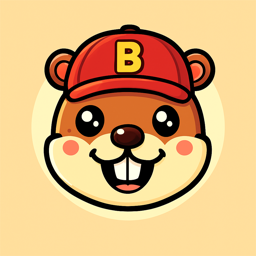
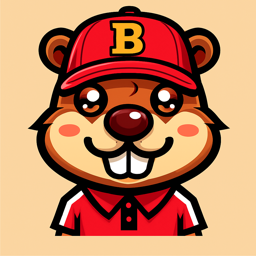
feat: add shirt cosmetics + full-body beaver sprites
Expand beaver from head-only to head+upper body portrait. Add 8 shirt
variants (Red Polo, No Shirt, Hawaiian, Overalls, Flannel, Jersey,
Tuxedo, Hoodie) with unlock conditions. All 22 sprites generated from
single base using GPT Image Edit API for consistency.

diff --git a/src/main.js b/src/main.js
@@ -376,6 +376,15 @@ const COSMETICS = [
   {id:'hat-party', category:'hats', name:'Party Hat', icon:'🥳', unlock:'streak7', desc:'7-day login streak', premium:true},
   {id:'hat-crown', category:'hats', name:'Golden Crown', icon:'👑', unlock:'allS', desc:'All S-grades', premium:true},
   {id:'hat-tophat', category:'hats', name:'Top Hat', icon:'🎩', unlock:'legend', desc:'Reach Legend rank', premium:true},
+  // Shirts
+  {id:'shirt-polo', category:'shirts', name:'Red Polo', icon:'👕', unlock:'default'},
+  {id:'shirt-none', category:'shirts', name:'No Shirt', icon:'🚫', unlock:'default'},
+  {id:'shirt-hawaiian', category:'shirts', name:'Hawaiian', icon:'🌺', unlock:'shift3', desc:'Complete Shift 3'},
+  {id:'shirt-overalls', category:'shirts', name:'Overalls', icon:'👷', unlock:'clean50', desc:'Clean 50 stalls'},
+  {id:'shirt-flannel', category:'shirts', name:'Flannel', icon:'🪓', unlock:'shift5', desc:'Complete Shift 5', premium:true},
+  {id:'shirt-jersey', category:'shirts', name:'Jersey #82', icon:'🏈', unlock:'combo20', desc:'Get a 20x combo', premium:true},
+  {id:'shirt-tuxedo', category:'shirts', name:'Tuxedo', icon:'🤵', unlock:'allS', desc:'All S-grades', premium:true},
+  {id:'shirt-hoodie', category:'shirts', name:'Hoodie', icon:'🧥', unlock:'coins300', desc:'Buy for 300 coins', cost:300},
   // Colors
   {id:'color-classic', category:'colors', name:'Classic Brown', icon:'🟤', unlock:'default'},
   {id:'color-golden', category:'colors', name:'Honey Gold', icon:'🟡', unlock:'manager', desc:'Reach Manager rank'},
@@ -385,9 +394,15 @@ const COSMETICS = [
 ];
 
 let cosmeticState = JSON.parse(localStorage.getItem('beaverCosmetics') || 'null') || {
-  unlocked: ['hat-none','hat-cap','color-classic'],
-  equipped: {hat:'hat-none', color:'color-classic'}
+  unlocked: ['hat-none','hat-cap','shirt-polo','shirt-none','color-classic'],
+  equipped: {hat:'hat-none', shirt:'shirt-polo', color:'color-classic'}
 };
+// Migrate old state missing shirt
+if (!cosmeticState.equipped.shirt) {
+  cosmeticState.equipped.shirt = 'shirt-polo';
+  if (!cosmeticState.unlocked.includes('shirt-polo')) cosmeticState.unlocked.push('shirt-polo');
+  if (!cosmeticState.unlocked.includes('shirt-none')) cosmeticState.unlocked.push('shirt-none');
+}
 
 function saveCosmeticState() {
   localStorage.setItem('beaverCosmetics', JSON.stringify(cosmeticState));
@@ -429,8 +444,12 @@ function checkCosmeticUnlocks() {
         earned = r.name === 'Manager' || r.name === 'Legend';
         break;
       }
+      case 'shift3': earned = achievementStats.shiftsCompleted >= 3; break;
+      case 'shift5': earned = achievementStats.shiftsCompleted >= 5; break;
+      case 'clean50': earned = achievementStats.totalCleaned >= 50; break;
+      case 'combo20': earned = achievementStats.maxCombo >= 20; break;
       case 'insane6': earned = localStorage.getItem('beaverInsane6') === 'true'; break;
-      // coins500 is purchased manually, not auto-unlocked
+      // coins are purchased manually, not auto-unlocked
     }
     if (earned) {
       cosmeticState.unlocked.push(c.id);
@@ -5961,11 +5980,12 @@ $('locker-modal').addEventListener('click', e => {
 });
 
 function getLockerPreviewSrc() {
-  // Show the equipped hat sprite, or color sprite if on colors tab
+  // Priority: hat > shirt > color for preview
   const hat = cosmeticState.equipped.hat;
+  const shirt = cosmeticState.equipped.shirt;
   const color = cosmeticState.equipped.color;
-  // Hat sprites take priority since they're more visually distinct
   if (hat && hat !== 'hat-none') return `/images/cosmetics/${hat}.png`;
+  if (shirt && shirt !== 'shirt-polo') return `/images/cosmetics/${shirt}.png`;
   return `/images/cosmetics/${color || 'color-classic'}.png`;
 }
 
@@ -5997,7 +6017,7 @@ function renderLockerTab(category) {
   const items = COSMETICS.filter(c => c.category === category);
   grid.innerHTML = items.map(c => {
     const owned = cosmeticState.unlocked.includes(c.id);
-    const equipped = cosmeticState.equipped.hat === c.id || cosmeticState.equipped.color === c.id;
+    const equipped = cosmeticState.equipped.hat === c.id || cosmeticState.equipped.shirt === c.id || cosmeticState.equipped.color === c.id;
     const locked = !owned;
     let status = '';
     if (equipped) status = '✓ Equipped';
@@ -6044,6 +6064,7 @@ function renderLockerTab(category) {
 
       // Equip
       if (cosmetic.category === 'hats') cosmeticState.equipped.hat = id;
+      else if (cosmetic.category === 'shirts') cosmeticState.equipped.shirt = id;
       else cosmeticState.equipped.color = id;
       saveCosmeticState();
       updateLockerPreview(id);

diff --git a/index.html b/index.html
@@ -442,6 +442,7 @@
       </div>
       <div class="locker-tabs">
         <button class="locker-tab selected" data-tab="hats">🧢 Hats</button>
+        <button class="locker-tab" data-tab="shirts">👕 Shirts</button>
         <button class="locker-tab" data-tab="colors">🎨 Colors</button>
       </div>
       <div class="locker-grid" id="locker-grid"></div>
